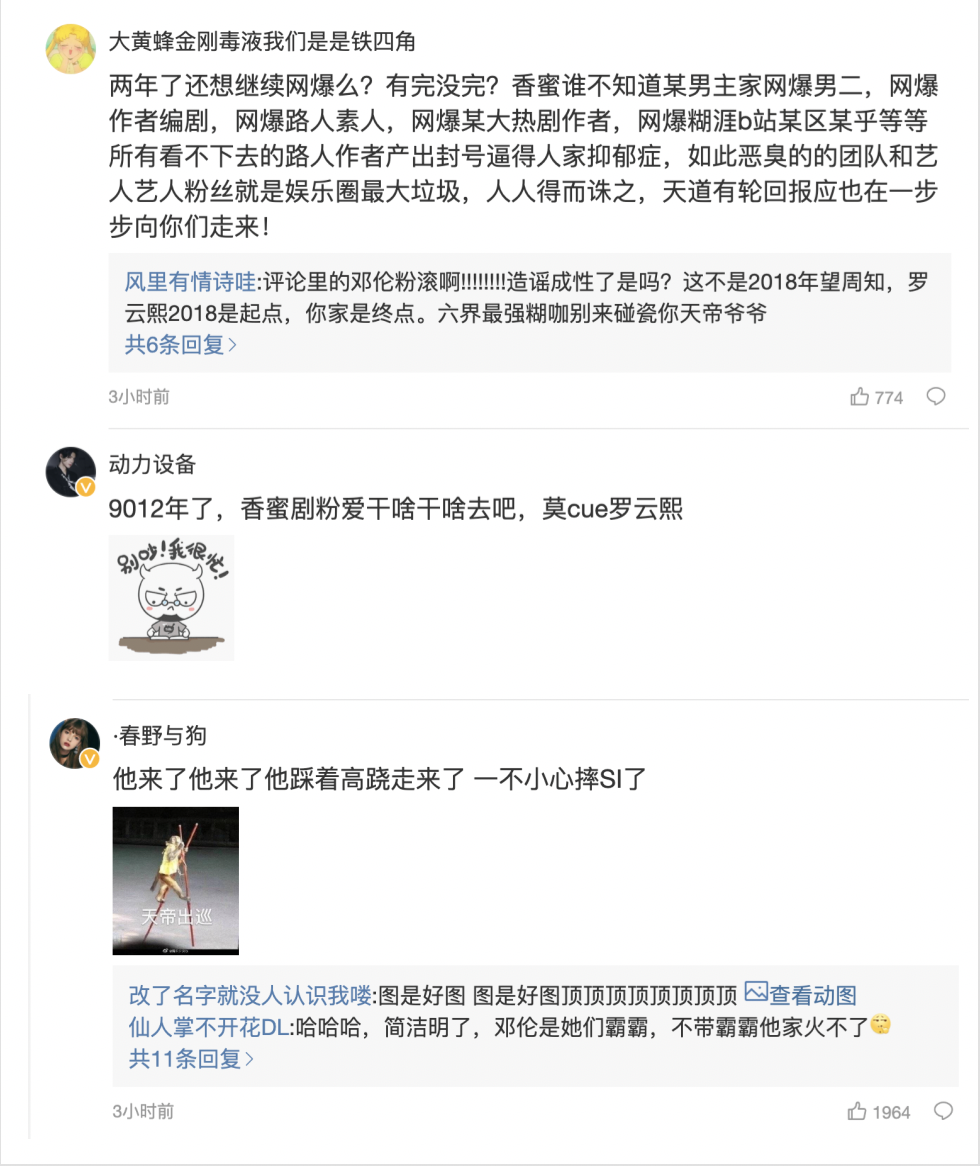
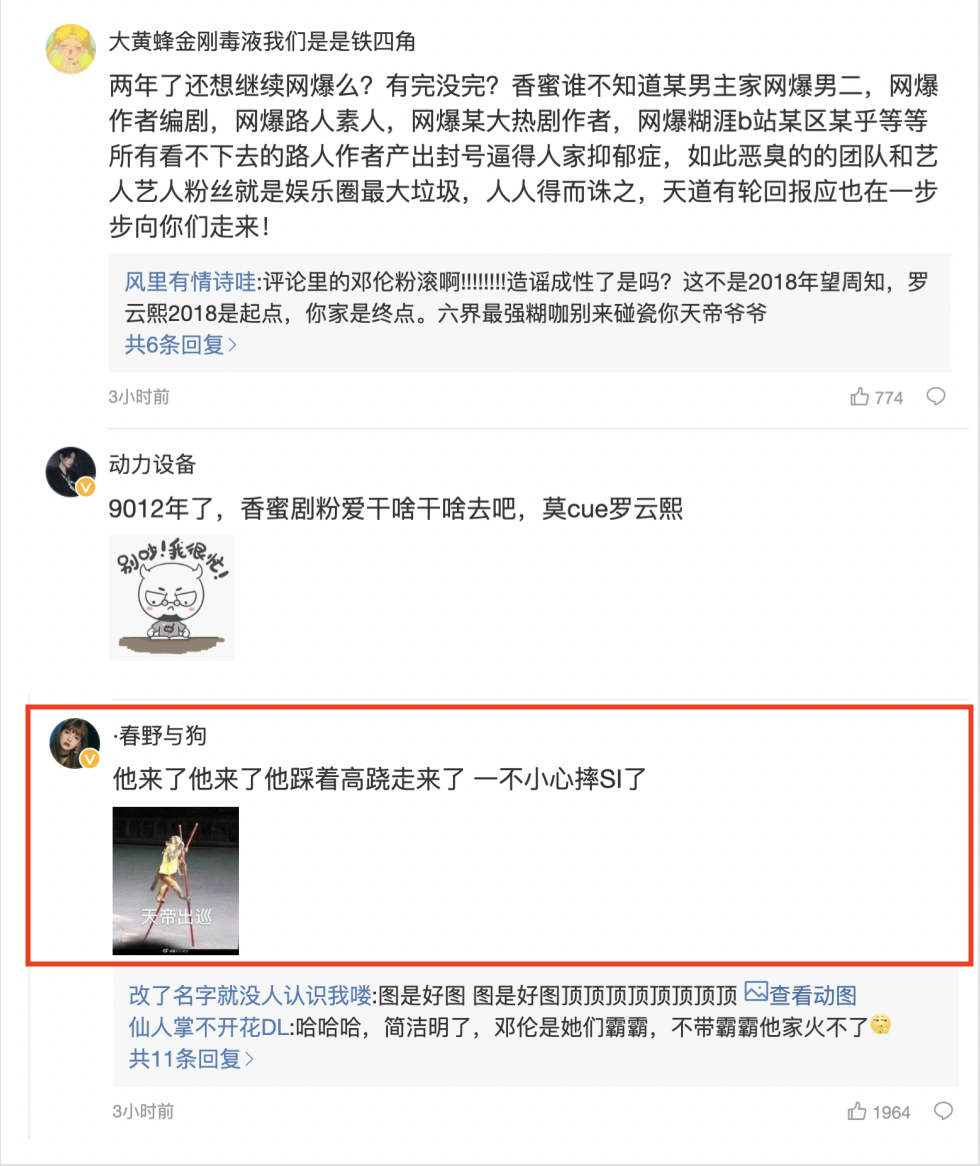
；

Changed region(s): [[0.0, 0.5866, 1.0, 0.8336]]

diff --git a/_posts/2019-11-15-一家人就是要整整齐齐.md b/_posts/2019-11-15-一家人就是要整整齐齐.md
@@ -116,6 +116,11 @@ comments: true
     
 ![图]({{ site.baseurl }}/images/Screen Shot 2019-11-15.png)
 
+
+    营销号下高赞的侮辱诅咒造谣性控评。
+    
+![图]({{ site.baseurl }}/images/Screen Shot 2019-11-15 at 4.55.27 AM.png)
+
 ---
 
     1.13挑事时的整整齐齐。
